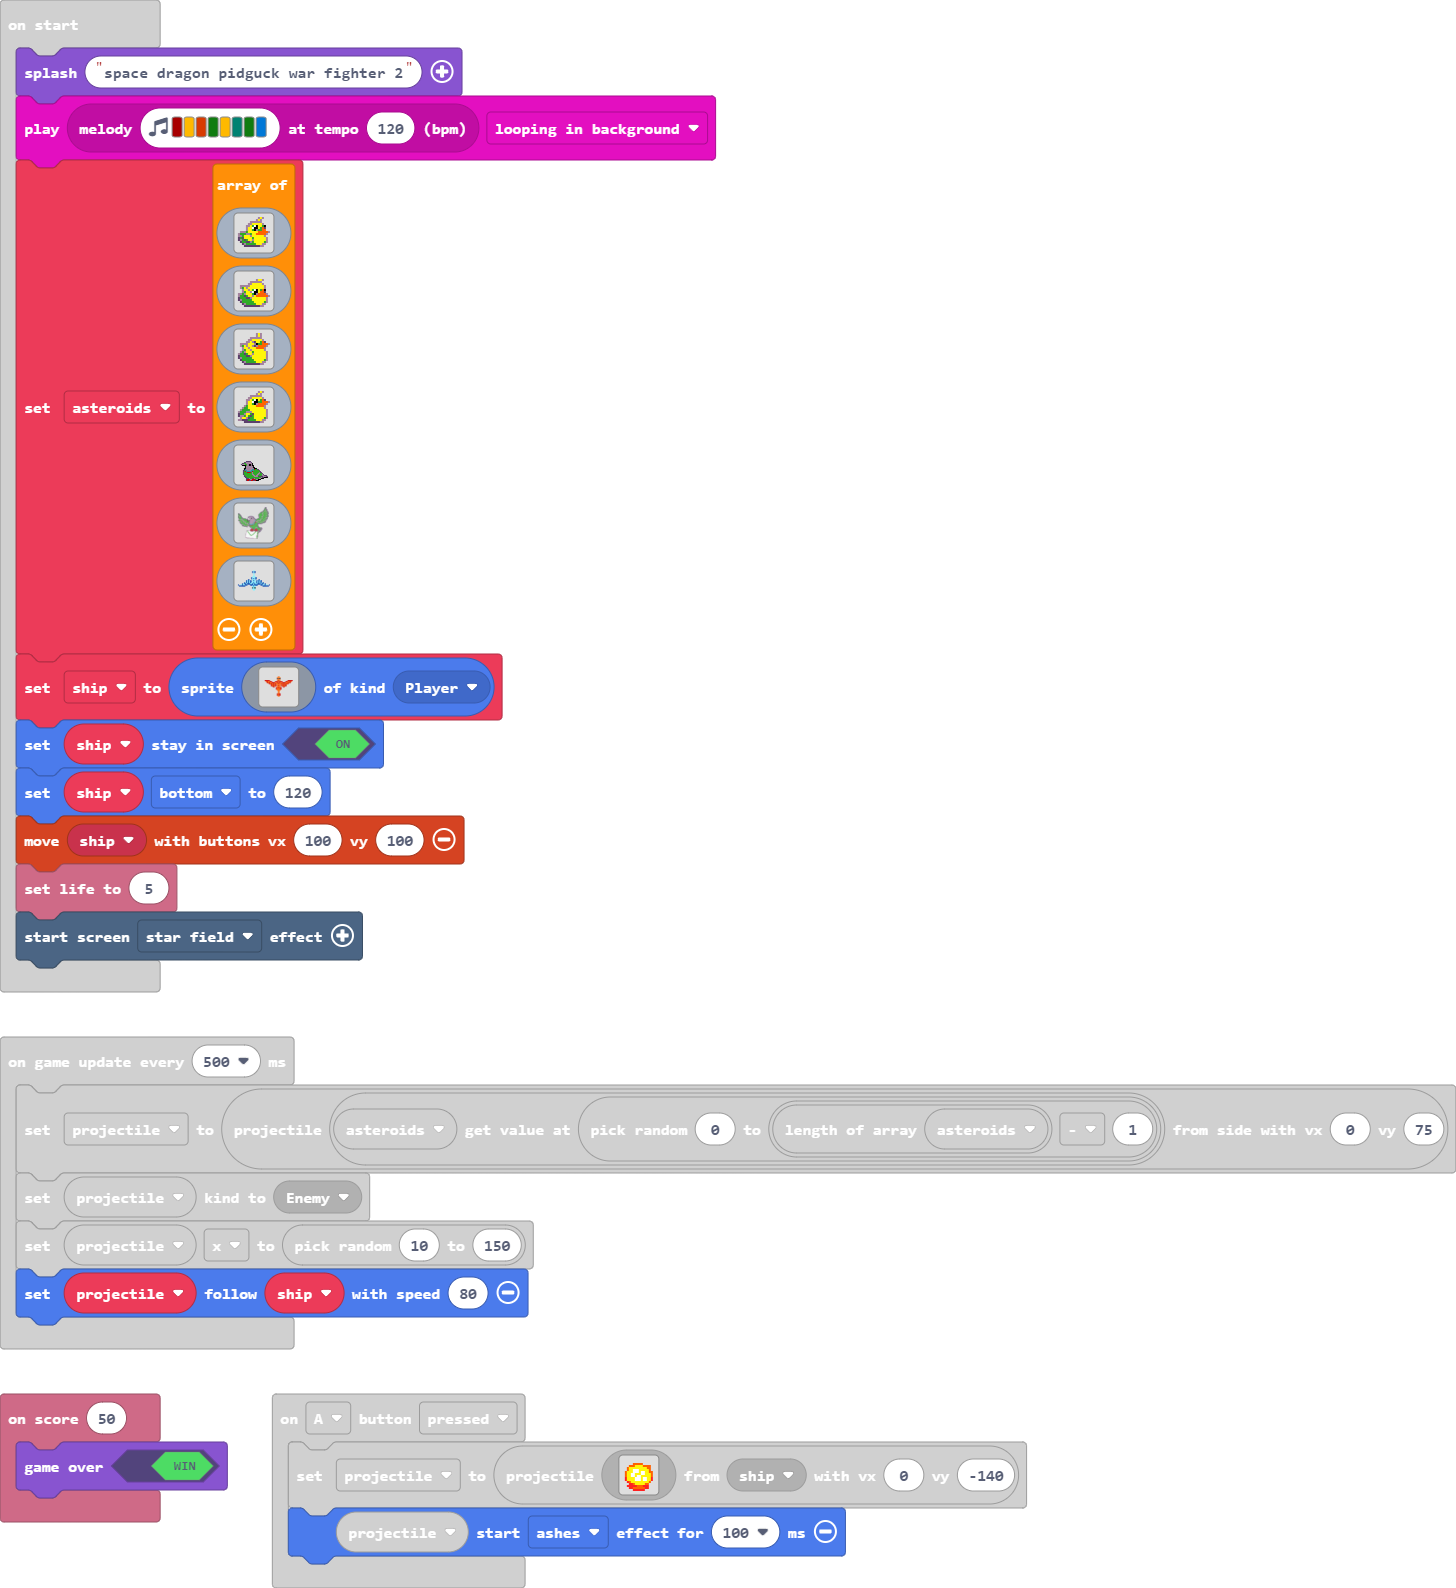
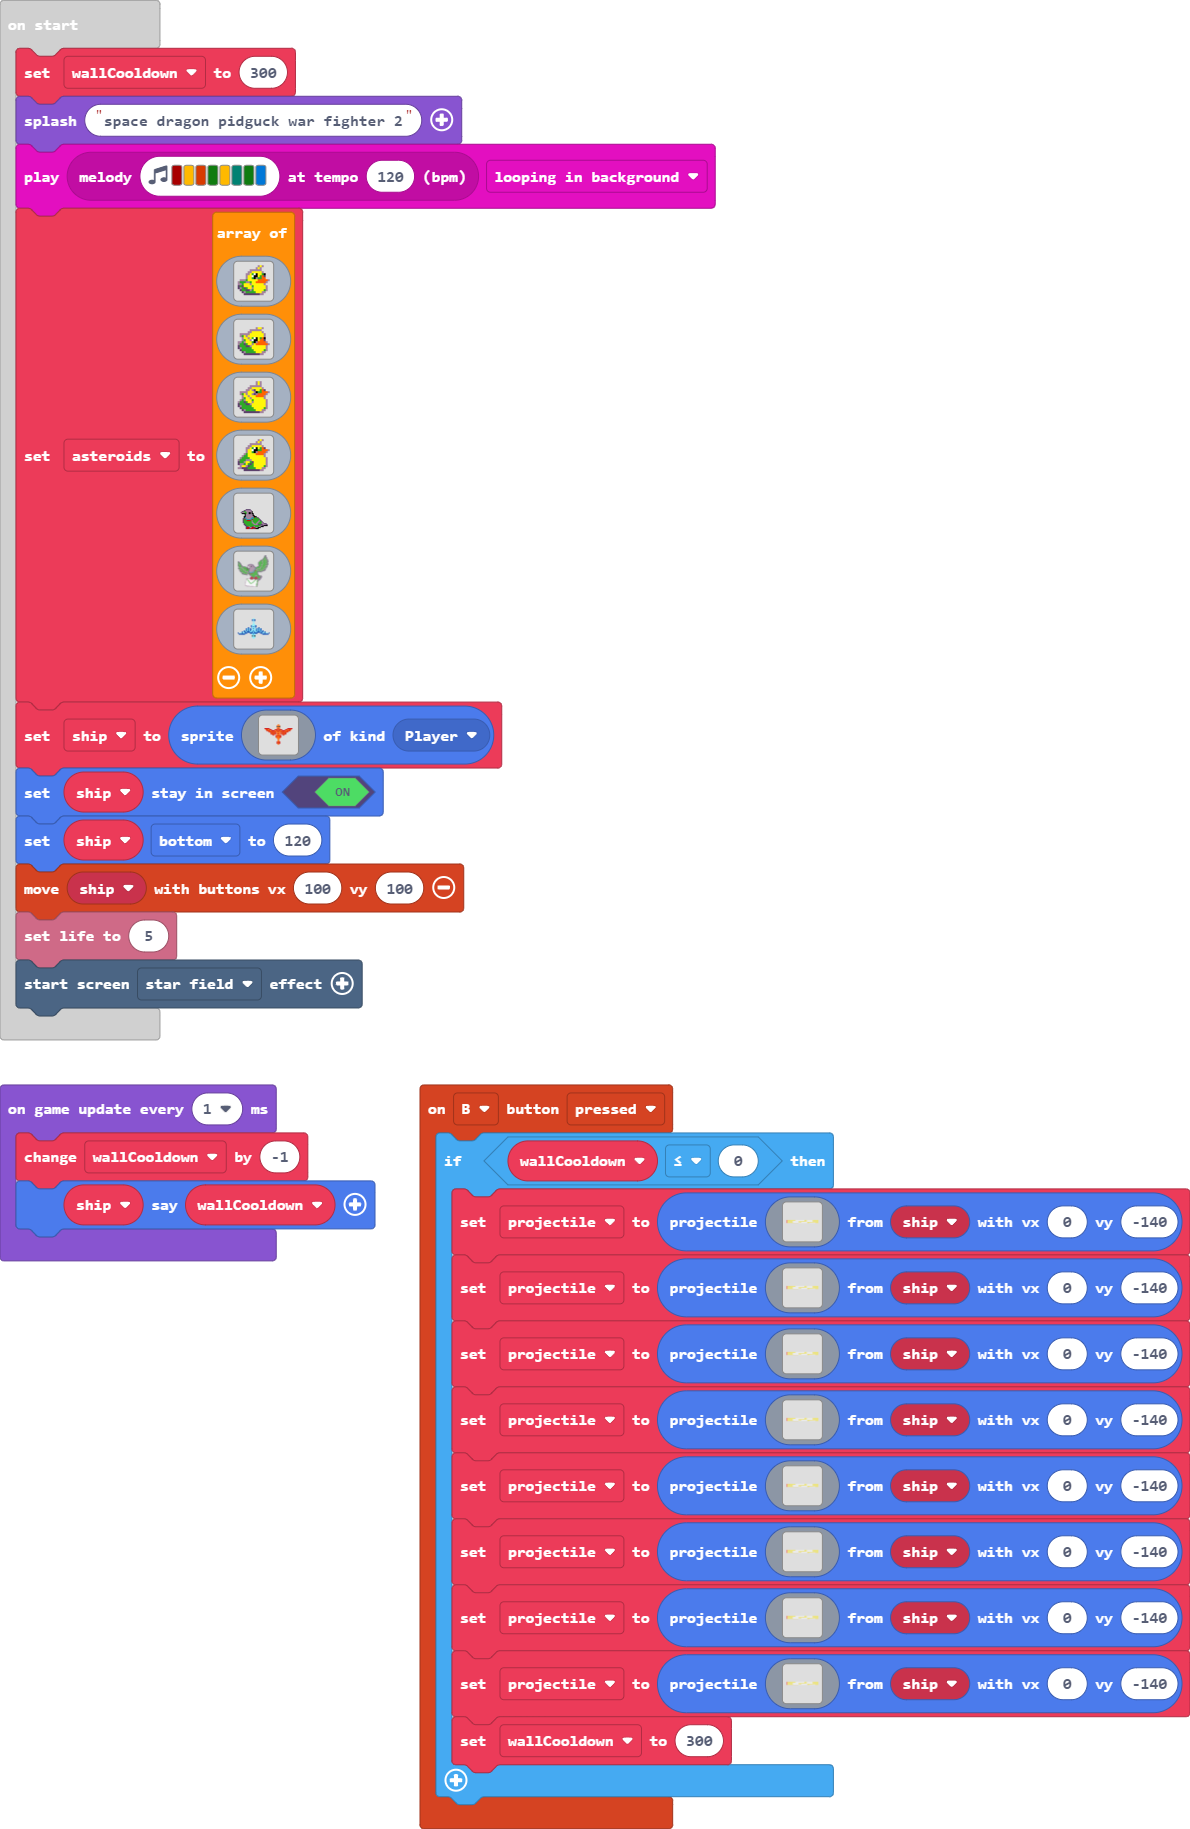
Update main.blocks, main.ts

diff --git a/main.ts b/main.ts
@@ -1,3 +1,16 @@
+controller.B.onEvent(ControllerButtonEvent.Pressed, function () {
+    if (wallCooldown <= 0) {
+        projectile = sprites.createProjectileFromSprite(assets.image`fireball0`, ship, 0, -140)
+        projectile = sprites.createProjectileFromSprite(assets.image`fireball0`, ship, 0, -140)
+        projectile = sprites.createProjectileFromSprite(assets.image`fireball0`, ship, 0, -140)
+        projectile = sprites.createProjectileFromSprite(assets.image`fireball0`, ship, 0, -140)
+        projectile = sprites.createProjectileFromSprite(assets.image`fireball0`, ship, 0, -140)
+        projectile = sprites.createProjectileFromSprite(assets.image`fireball0`, ship, 0, -140)
+        projectile = sprites.createProjectileFromSprite(assets.image`fireball0`, ship, 0, -140)
+        projectile = sprites.createProjectileFromSprite(assets.image`fireball0`, ship, 0, -140)
+        wallCooldown = 300
+    }
+})
 controller.A.onEvent(ControllerButtonEvent.Pressed, function () {
     projectile = sprites.createProjectileFromSprite(assets.image`fireball`, ship, 0, -140)
     projectile.startEffect(effects.ashes, 100)
@@ -18,6 +31,8 @@ sprites.onOverlap(SpriteKind.Player, SpriteKind.Enemy, function (sprite, otherSp
 })
 let projectile: Sprite = null
 let ship: Sprite = null
+let wallCooldown = 0
+wallCooldown = 300
 game.splash("space dragon pidguck war fighter 2")
 music.play(music.stringPlayable("C5 A B G A F G E ", 120), music.PlaybackMode.LoopingInBackground)
 let asteroids = [
@@ -35,6 +50,10 @@ ship.bottom = 120
 controller.moveSprite(ship, 100, 100)
 info.setLife(5)
 effects.starField.startScreenEffect()
+game.onUpdateInterval(1, function () {
+    wallCooldown += -1
+    ship.sayText(wallCooldown)
+})
 game.onUpdateInterval(500, function () {
     projectile = sprites.createProjectileFromSide(asteroids[randint(0, asteroids.length - 1)], 0, 75)
     projectile.setKind(SpriteKind.Enemy)
